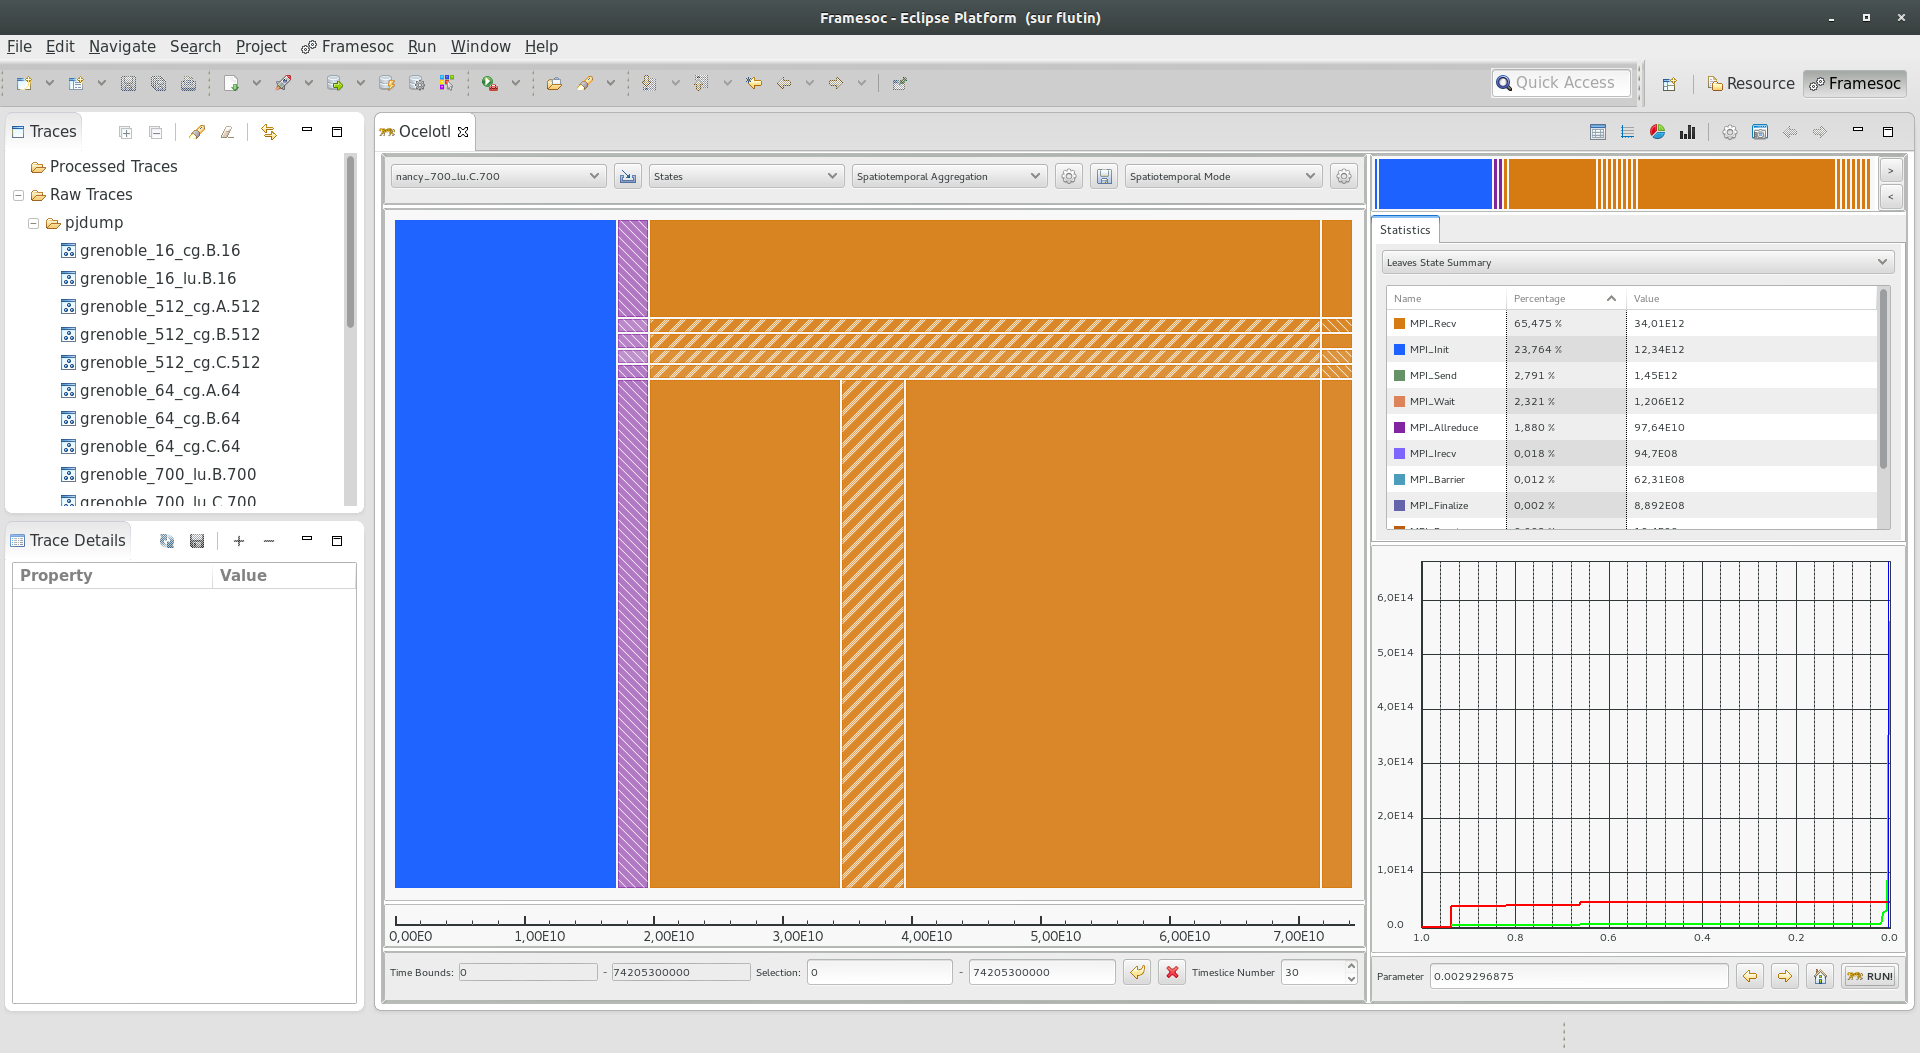
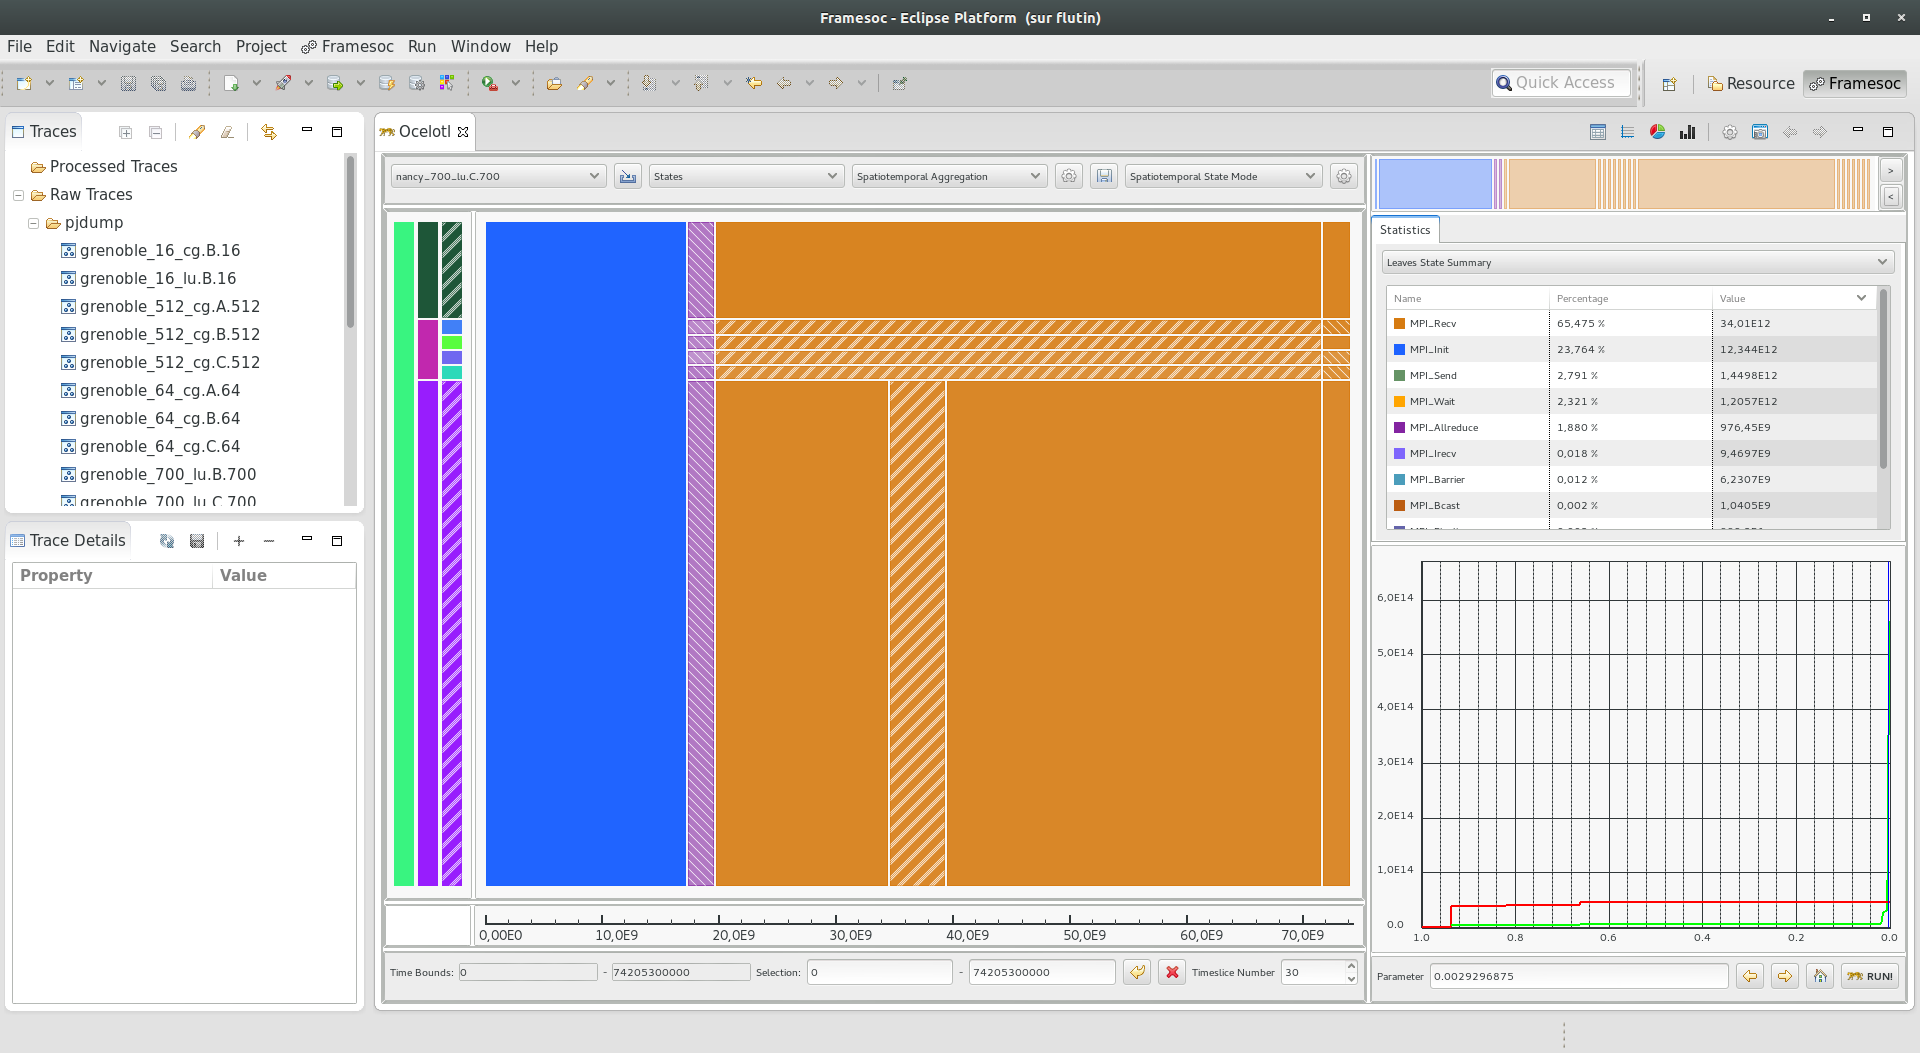
Updated documentation for version 1.1.2

diff --git a/OCELOTL_userguide.tex b/OCELOTL_userguide.tex
@@ -43,7 +43,7 @@ Damien Dosimont \thanks{INRIA, damien.dosimont@imag.fr}
 %%
 \RCGrenoble 
 %%
-\abstract{This guide describes the Ocelotl tool, in its version 1.0.6, available at the following github repository: \url{https://github.com/soctrace-inria/ocelotl}.}
+\abstract{This guide describes the Ocelotl tool, in its version 1.1.2, available at the following github repository: \url{https://github.com/soctrace-inria/ocelotl}.}
 
 %%=====================================================================
 %%=====================================================================
@@ -82,18 +82,17 @@ Damien Dosimont \thanks{INRIA, damien.dosimont@imag.fr}
 
 %=====================================================================
 
-Ocelotl is a tool to explore, analyze and visualize execution traces through aggregation techniques. It is part of the SoC-Trace project, and as such, it is integrated in the FrameSoC framework as an Eclipse plug-in. 
+Ocelotl is a tool to explore, analyze and visualize execution traces through aggregation techniques. It is part of the SoC-Trace project, and as such, it is integrated in the Framesoc framework as an Eclipse plug-in. 
 
 \section{Installation}
 Please refer to the installation procedure described on the Ocelotl wiki page: \url{https://github.com/soctrace-inria/ocelotl/wiki/User-Guide}.
-
 
 \section{Launch Ocelotl}
 
 \begin{figure}[h!]
 	\centering
     \includegraphics[width=1.0\textwidth]{images/framesoc_launch.png}
-	\caption{FrameSoC Eclipse Workbench at startup}
+	\caption{Framesoc Eclipse Workbench at startup}
 	\label{frameLaunch}
 \end{figure}
 
@@ -102,14 +101,14 @@ In order to launch Ocelotl:
 \begin{enumerate}
 	\item 
 	\begin{itemize}
-		\item Go to the FrameSoC menu, choose the \textit{Trace Analysis} entry and click on \textit{Launch Analysis Tool}. 
+		\item Go to the Framesoc menu, choose the \textit{Trace Analysis} entry and click on \textit{Launch Analysis Tool}. 
 		\item Or click on the \textit{Analyze Trace} icon.
 	\end{itemize}
 
 	\begin{figure}[h!]
 		\centering
 		\includegraphics[scale=0.5]{images/labeled.png}
-		\caption{The FrameSoC menu and the \textit{Analyze Trace} icon}
+		\caption{The Framesoc menu and the \textit{Analyze Trace} icon}
 		\label{launchOcelotl}
 	\end{figure}
 	
@@ -144,7 +143,7 @@ In this section, we describe how to load a trace, launch the analysis and explor
 
 \subsubsection{Select a trace}
 
-At the top of the Ocelotl window, the \textit{Trace Overview} tool bar allows to select a trace to analyze (element \textcolor{red}{1} in Fig. \ref{traceConf}). It shows the traces already exported in FrameSoC. Once a trace is selected, the default settings compatible with the trace are automatically selected. However it is possible to change these settings, as described in the following subsections. 
+At the top of the Ocelotl window, the \textit{Trace Overview} tool bar allows to select a trace to analyze (element \textcolor{red}{1} in Fig. \ref{traceConf}). It shows the traces already exported in Framesoc. Once a trace is selected, the default settings compatible with the trace are automatically selected. However it is possible to change these settings, as described in the following subsections. 
 
 \subsubsection{Metric Selection}
 The \textit{Metric} combo (element \textcolor{red}{2} in Fig. \ref{traceConf}) displays the metrics compatible with the current trace.
@@ -219,13 +218,15 @@ At the top right of the Ocelotl tool, a button (\textcolor{red}{1} in Fig. \ref{
 	\label{ocelotlsettings}
 \end{figure}
 
-\subsubsection{Quality Curves settings}
-The tab \textit{Quality Curves} enables to change the appearance of complexity and information curves provided by the aggregation algorithm:
+\subsubsection{Aggregation Settings}
+The tab \textit{Aggregation Settings} contains two subsections: the \textit{Quality Curves} and \textit{Parameter P} settings. The \textit{Quality Curves} settings enables to change the appearance of complexity and information curves provided by the aggregation algorithm:
 \begin{itemize}
 	\item \textit{Normalize Qualities}: normalizes the curves and scale them on the interval $[0:1]$, which improves their readabilty. \underline{\textbf{Note:}} normalization should not be used with spatiotemporal operators since it provides incorrect results.
     \item You can choose between two representations of the curves: rising curves (complexity gain, information gain) or decreasing curves (complexity reduction, information loss).
     \item The \textit{Threshold} parameter determines the quality curves precision. The more its value decreases, the more the precision increases and the more aggregation steps are found. However, setting a too small value may lead to bad performances, so we advice to keep the default value.
 \end{itemize}
+
+The \textit{Parameter P} settings let you choose the strategy used to select the P parameter that will be chosen after launching an analysis.
 
 \subsubsection{Cache Settings}
 To prevent time-consuming loading of traces from the database, we use a cache system to accelerate access to the trace raw data. If the cache is enabled in the settings, then the first time a trace is analyzed, a cache file is generated. A cache file is a plain text file that contains non-null values of the trace, and each cache is specific to an metric operator, and a specific time region.
@@ -254,8 +255,12 @@ In the \textit{Advanced Settings} tab, you can configure some advanced settings\
 	\item \textit{Working Threads}: set the number of active threads during the trace reading. 
 \end{itemize}
 
-\subsubsection{Miscellaneous Settings}
-The \textit{Miscellaneous Settings} allow to set the saving directory of the snapshots taken in Ocelolt.
+\subsubsection{Snapshot Settings}
+The \textit{Snapshot Settings} allow to set the saving directory of the snapshots taken in Ocelotl, as well as the resolution of the snapshot. The latter feature can be useful since drawing is relaunch by taking into account the new resolution, meaning that it can overcome the limitation of the screen resolution, and thus avoid any visual aggregations.
+
+\subsubsection{Overview Settings}
+The \textit{Overview Settings} allow to enable or disable the overview, along with customizing the color and transparency settings of the selection display on the overview.
+
 
 \subsection{Time settings}
 In order to tune the time settings, several parameters can be modified in the bar under the graph display area (Fig. \ref{timeSettings}).
@@ -268,7 +273,7 @@ In order to tune the time settings, several parameters can be modified in the ba
 \end{figure}
 
 \subsubsection{Time Stamps}
-There are two different time stamps values shown: the first one (\textcolor{red}{1} in Fig. \ref{timeSettings}) shows the starting and ending timestamps of the currently displayed zone of the trace, the second (\textcolor{red}{2}) shows the bounding time stamps of the currently selected zone (or are identical to the first ones, if there is currently no selection). The first time stamps are not editable, but the second sets of time stamps are, and allows to set the trace time bounds by modifying the values. The \textit{Cancel Selection} button  (\textcolor{red}{4}) cancels the current selection (both temporal and spatial) to the currently displayed time stamps and event producers. The \textit{Reset} button (\textcolor{red}{3}) also cancels the current selection and in addition resets the temporal values to the global starting and ending time stamps values of the trace, and also resets the event producers to all the event producers present in the trace.
+There are two different time stamps values shown: the first one (\textcolor{red}{1} in Fig. \ref{timeSettings}) shows the starting and ending timestamps of the currently displayed zone of the trace, the second (\textcolor{red}{2}) shows the bounding time stamps of the currently selected zone (or are identical to the first ones, if there is currently no selection). The first time stamps are not editable, but the second sets of time stamps are, and allows to set the trace time bounds by modifying the values. The \textit{Cancel Selection} button  (\textcolor{red}{4}) cancels the current selection (both temporal and spatial) to the currently displayed time stamps and event producers. Alternatively, the selection can be canceled with a middle-click. The \textit{Reset} button (\textcolor{red}{3}) also cancels the current selection and in addition resets the temporal values to the global starting and ending time stamps values of the trace, and also resets the event producers to all the event producers present in the trace.
 
 \subsubsection{Time Slices}
 The \textit{Timeslice Number} field (\textcolor{red}{5}) corresponds to the number of time slices that will be used to compute the aggregation. It is advised to tune this parameter in order to find a granularity that is convenient to the analysis. As the aggregation algorithm complexity is dependent on this parameter, it is advised to increment it progressively to keep good performances.
@@ -326,6 +331,11 @@ Fig. \ref{showAggreg} shows an aggregated trace, with the proportion view. At th
 \subsubsection{Spatio-temporal Aggregate}
 If a spatio-temporal aggregation is used, it is possible that the size of the window does not allow to correctly display the aggregates, especially if there is a great number of producers. If in the aggregate there is only disparities on the spatial level, then the aggregate is displayed with right to left stripes. If the disparities are also temporal, then the stripes go from left to right. Both of these cases can be seen in Fig. \ref{showAggreg}. In any case, to display the content of the aggregate, right-click on the aggregate and the content will be displayed in a new window. To close the newly created window, simply click on it.
 
+\subsubsection{Y Axis}
+Depending on the selected aggregation operator and visualization type, a Y axis displaying some additional information will appear on the left side of the graph display. For spatiotemporal aggregation, the Y axis display the hierarchy of the event producers. This can be seen in Fig. \ref{showAggreg}. The hierarchy is shown as a set of rectangles, each representing a level of hierarchy --- from left to right, the more general to the specific (typically root, cluster, machine, node). By hovering the mouse, the tool tip display the name of the producer. If there is not enough place to correctly display the producers, they will be aggregated visually. By right-clicking on one of the producer, a hierarchy tree of the hierarchy will be shown in a new window. Additionally it can be used to select the event producer for the whole displayed time region, by simply clicking on the producer.
+
+In the case of a proportion view with a temporal aggregation. the Y axis displays the proportion value.
+
 \subsection{Load and save a cache file}
 \subsubsection{Load}
 An alternative way to load a trace, instead of using the combo box, is to load it from its cache file, by using the button to the right of the combo box (element \textcolor{red}{5} in Fig. \ref{traceConf}). It opens a new window, allowing to select a cache file. If the selected cache file is valid and corresponds to a trace currently in the Framesoc database, then the trace is automatically loaded with the settings saved in the cache file.
@@ -367,7 +377,13 @@ The statistics can be sorted by clicking on the column names of the table.
 In order to save the currently displayed diagram and curves, it is possible to save them as image files along with the current parameters of the trace in a text file. This is done by clicking the button at the top right of the display (\textcolor{red}{2} in Fig. \ref{ocelotlButtons}).
 
 \subsection{Known Issues}
-You may need to resize manually the different views, according to your resolution.
+You may need to resize manually the different views, according to your resolution. Several other problems are known:
+\begin{itemize}
+	\item The temporal selection between the main graph and the time axis view have a few pixels of difference.
+	\item The scaling of the Y axis in the temporal aggregation-proportion visualization case, does not display round figures for values inferior to 1.
+\end{itemize}
+
+For a list of all the current known issues in Ocelotl, please refer to the issues section of our github \footnote{\url{https://github.com/soctrace-inria/ocelotl/issues}}.
 
 \newpage
 
